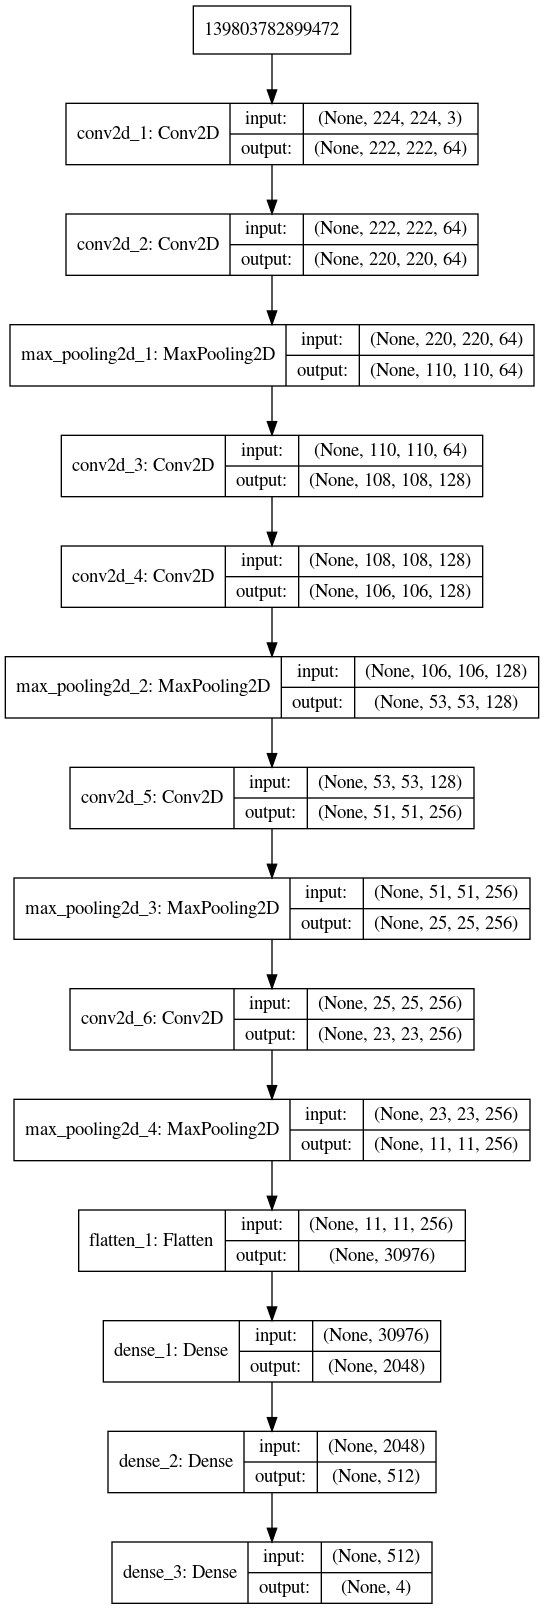
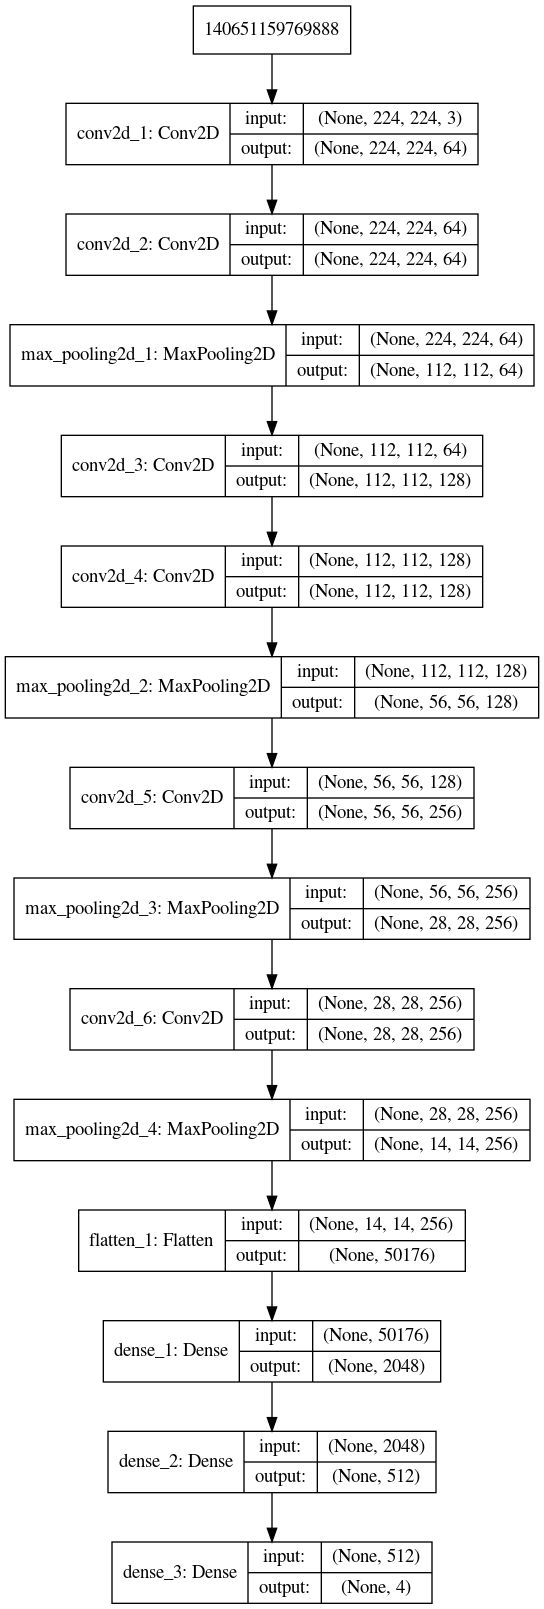
Adjusted the layers to have same input and output sizes

diff --git a/src/model/cnn.py b/src/model/cnn.py
@@ -23,29 +23,29 @@ def create_model():
 
     # First conv layer
     model.add(Conv2D(64, KERNEL_SIZE, input_shape=INPUT_SHAPE,
-                     activation='relu', use_bias=True, strides=1, padding='valid'))
+                     activation='relu', use_bias=True, strides=1, padding='same'))
 
     # Second conv layer
     model.add(Conv2D(64, KERNEL_SIZE, activation='relu',
-                     strides=1, use_bias=True, padding='valid'))
+                     strides=1, use_bias=True, padding='same'))
     # First pool layer
     model.add(MaxPooling2D(pool_size=POOL_SIZE, strides=2))
     # Third conv layer
     model.add(Conv2D(128, KERNEL_SIZE, activation='relu',
-                     strides=1, use_bias=True, padding='valid'))
+                     strides=1, use_bias=True, padding='same'))
     # Fourth conv layer
     model.add(Conv2D(128, KERNEL_SIZE, activation='relu',
-                     strides=1, use_bias=True, padding='valid'))
+                     strides=1, use_bias=True, padding='same'))
     # Second pool layer
     model.add(MaxPooling2D(pool_size=POOL_SIZE, strides=2))
     # Fifth conv layer
     model.add(Conv2D(256, KERNEL_SIZE, activation='relu',
-                     strides=1, use_bias=True, padding='valid'))
+                     strides=1, use_bias=True, padding='same'))
     # Third pool layer
     model.add(MaxPooling2D(pool_size=POOL_SIZE, strides=2))
     # Sixth conv layer
     model.add(Conv2D(256, KERNEL_SIZE, activation='relu',
-                     strides=1, use_bias=True, padding='valid'))
+                     strides=1, use_bias=True, padding='same'))
     # Fourth pool layer
     model.add(MaxPooling2D(pool_size=POOL_SIZE, strides=2))
 
